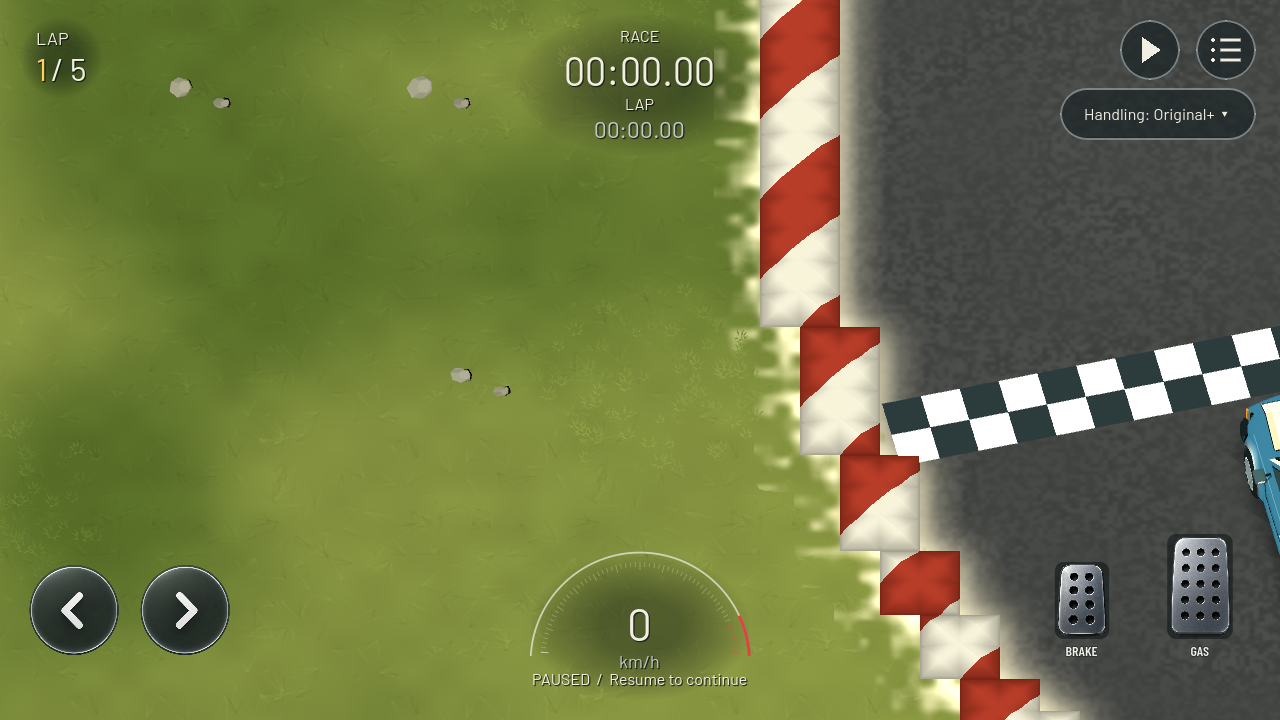
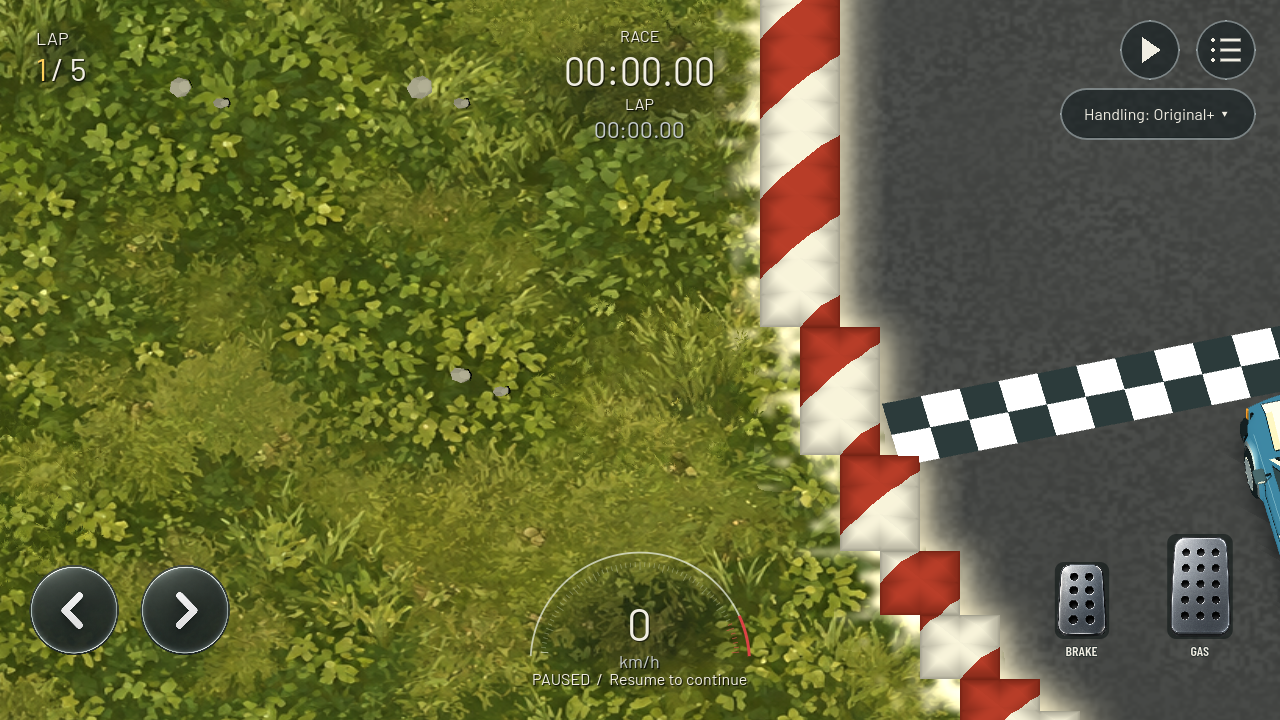
Restore rich painted grass detail after visual feedback

diff --git a/docs/HYBRID_GRASS.md b/docs/HYBRID_GRASS.md
@@ -1,5 +1,12 @@
 # Hybrid grass — 2026-09-23
 
+## Owner correction: restore vegetation detail
+
+The owner rejected kit 55 as too plain. Kit 56 restores the original `painted_grass_v1.png` as the dominant albedo at its original 20 m world scale, with only 10% flat-colour blending and no extra positive mip bias. Broad macro shading is much weaker; the smooth yellow-green blobs no longer replace vegetation structure. Tufts sample the same painted texture and macro tint. Sparse opaque geometry and filtered fine normals remain. The synthetic `grass_albedo` map is retained as a prior experiment but is no longer sampled by the active grass colour function. No new art assets were generated.
+
+Changed files: `surface_detail.gdshaderinc`, `grass_tuft.gdshader`, `grass_tufts.gd`, `native_track_visual.gd`, these notes, status/plan and evidence. Requirements V02/V04/V05/Q01. Actual pinned-build commands: `scripts/dev.ps1 -Action CaptureGrass` (17 checks passed), `TestGrass` (15 passed), `TestSurfaces` (50 passed), each invoked through PowerShell with `-NoProfile -ExecutionPolicy Bypass -File`. Refreshed driving and detail captures; driving view inspected at gameplay scale. [Rejected plain version](evidence/grass/rejected-plain-driving.png) and [revised detailed version](evidence/grass/hybrid-driving.png) use the same framing. No phone deployment, device test or profiling performed for this correction; owner visual acceptance and mobile motion/performance checks remain pending. The original implementation record below describes the rejected first pass.
+
+
 Requirements V02/V04/V05/Q01; owner grass-only material/geometry request. Visual kit 55. No physics, route, timing, camera or track-data contract changes.
 
 Grass in Pine and Storm uses three original baked 512×512 maps: a 32 m macro tile with roughly 4–10 m irregular medium/thick/dry patches, a 4 m albedo-factor tile containing 30–60 cm blade fans, and a 0.8 m normal tile containing 5–10 cm relief. Broad variation dominates fine contrast. Normal strength fades at subpixel size; all maps have mipmaps and anisotropic filtering. Ground, weighted terrain, road skirts and sand-to-grass fringes share world coordinates. Desert, Winter and Night city retain their existing ground appearance (Night city uses a neutral paved palette).

diff --git a/DEVELOPMENT_STATUS.md b/DEVELOPMENT_STATUS.md
@@ -1,5 +1,7 @@
 # Development status
 
+2026-09-23 V02/V04/V05/Q01: owner rejected plain hybrid grass. Kit 56 restores original painted vegetation detail, greatly reduces broad blotches and matches tuft colour to the ground. CaptureGrass 17, TestGrass 15 and TestSurfaces 50 checks pass; revised gameplay screenshot inspected. No phone test/deployment/profiling. See docs/HYBRID_GRASS.md.
+
 2026-09-23 V02/V04/V05/Q01: grass-only hybrid material uses baked macro/albedo/normal maps and five opaque clustered MultiMesh tuft variants. Visual kit 55; 2,270 tuft origins in captured driving view. Grass 15/17 headless/graphical, surface 50, desert 24, biome 92 and shader-probe 928 checks pass. Desktop screenshots inspected. Phone attached; no device test/export/profiling. See docs/HYBRID_GRASS.md.
 
 2026-09-23 R01/R03/V03/V05/Q01: Results Sectors route and table colours now encode each sector's time delta against the fastest valid lap (green gain, grey match, orange loss); transverse outlined lines mark every sector end. 185 headless and 204 graphical checks pass; three responsive captures refreshed and desktop capture inspected. No phone test/export. See docs/RACE_RESULTS.md.

diff --git a/docs/PHASE_0_PLAN.md b/docs/PHASE_0_PLAN.md
@@ -1,5 +1,7 @@
 # Phase 0: specification review and first slice
 
+2026-09-23 V02/V04/V05/Q01: owner rejected plain hybrid grass. Kit 56 restores original painted vegetation detail, greatly reduces broad blotches and matches tuft colour to the ground. CaptureGrass 17, TestGrass 15 and TestSurfaces 50 checks pass; revised gameplay screenshot inspected. No phone test/deployment/profiling. See docs/HYBRID_GRASS.md.
+
 2026-09-23 V02/V04/V05/Q01: grass-only hybrid material uses baked macro/albedo/normal maps and five opaque clustered MultiMesh tuft variants. Visual kit 55; 2,270 tuft origins in captured driving view. Grass 15/17 headless/graphical, surface 50, desert 24, biome 92 and shader-probe 928 checks pass. Desktop screenshots inspected. Phone attached; no device test/export/profiling. See docs/HYBRID_GRASS.md.
 
 2026-09-23 R01/R03/V03/V05/Q01: Results sector colours compare corresponding sector times with the fastest valid lap, consistently across route and table; visible transverse lines mark sector ends. TestResults passes 185 checks and CaptureResults passes 204 checks; desktop evidence inspected. No phone test/export. See docs/RACE_RESULTS.md.
